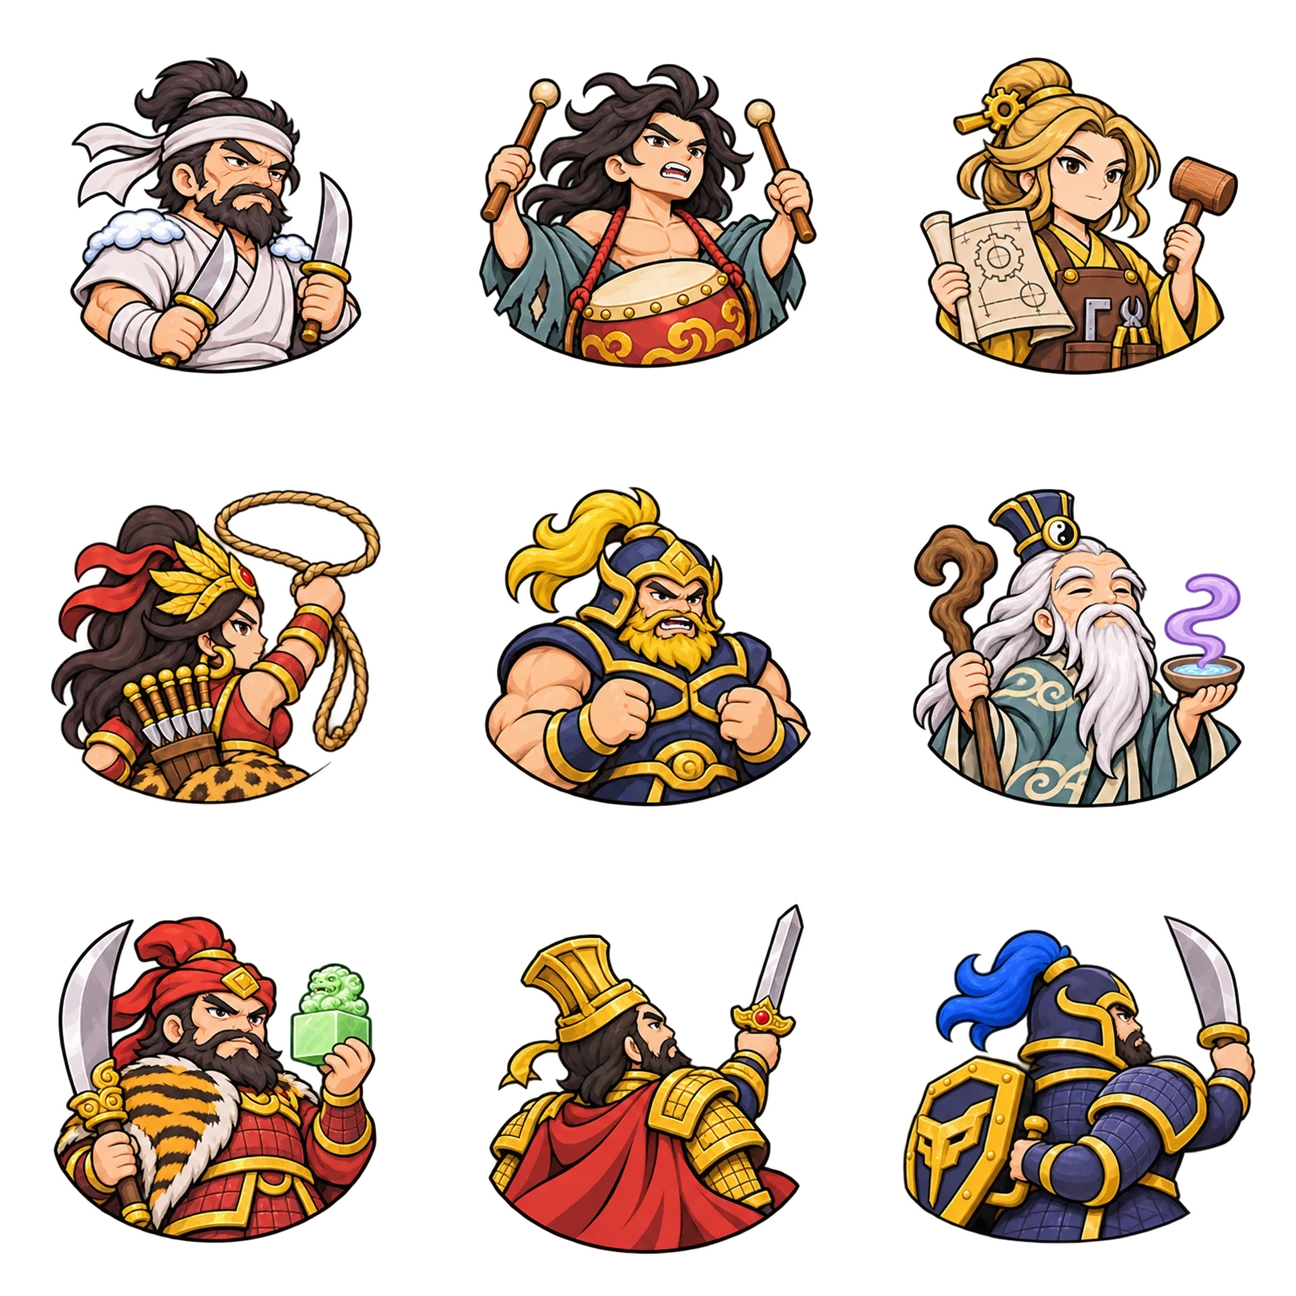
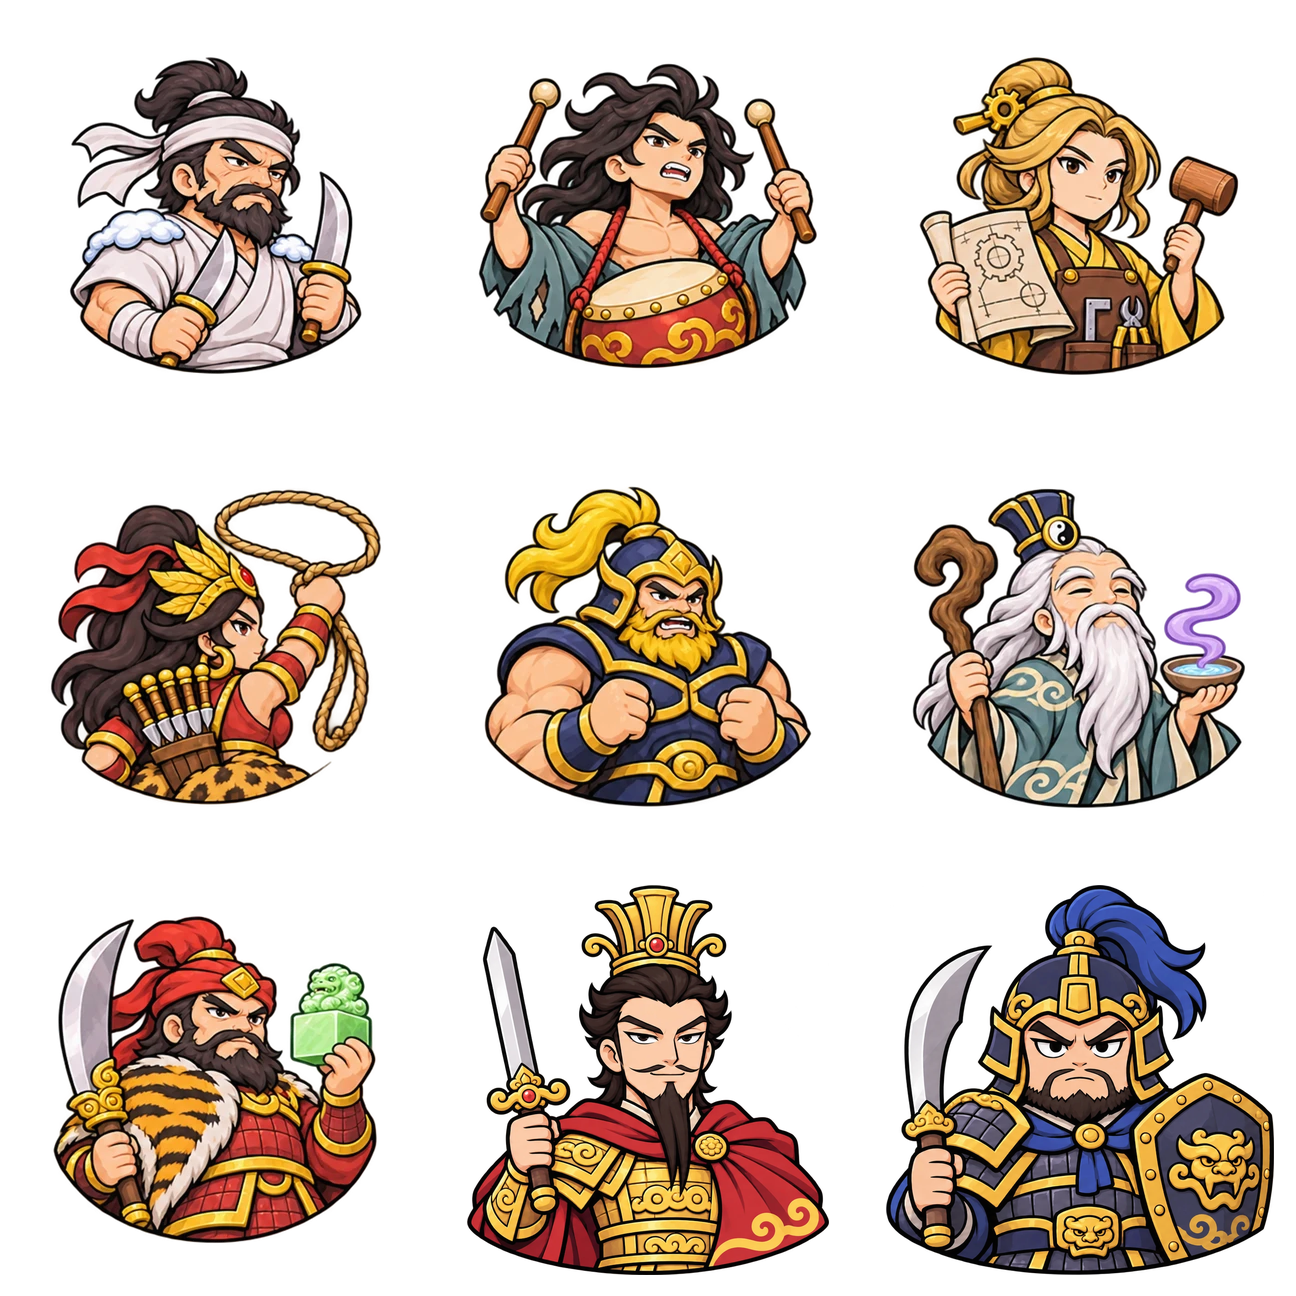
烽火守城：换上武将 11、头像 10 的手绘图，袁绍和曹仁的头像重画成正脸
至此 94 名武将、58 件兵器、全部敌人都有手绘图。

Claude-Session: https://claude.ai/code/session_01L3jguFYprBTa7gYpFHSxvP

Changed region(s): [[0.679, 0.679, 0.9877, 0.9877], [0.3395, 0.679, 0.6481, 0.9877]]

diff --git a/sanguo-td/assets/manifest.js b/sanguo-td/assets/manifest.js
@@ -110,7 +110,9 @@ window.ASSET_LIST = [
   'heroes/caochun_head.png',
   'heroes/caohong.png',
   'heroes/caohong_head.png',
+  'heroes/caoren.png',
   'heroes/caoren_head.png',
+  'heroes/caozhang.png',
   'heroes/caozhang_head.png',
   'heroes/chengong.png',
   'heroes/chengong_head.png',
@@ -126,6 +128,7 @@ window.ASSET_LIST = [
   'heroes/dianwei_head.png',
   'heroes/diaochan.png',
   'heroes/diaochan_head.png',
+  'heroes/dingfeng.png',
   'heroes/dingfeng_head.png',
   'heroes/dongzhuo.png',
   'heroes/dongzhuo_head.png',
@@ -150,6 +153,7 @@ window.ASSET_LIST = [
   'heroes/guanping.png',
   'heroes/guanping_head.png',
   'heroes/guanxing.png',
+  'heroes/guanxing_head.png',
   'heroes/guanyu.png',
   'heroes/guanyu_head.png',
   'heroes/guojia.png',
@@ -158,6 +162,7 @@ window.ASSET_LIST = [
   'heroes/handang_head.png',
   'heroes/huanggai.png',
   'heroes/huanggai_head.png',
+  'heroes/huangyueying.png',
   'heroes/huangyueying_head.png',
   'heroes/huangzhong.png',
   'heroes/huangzhong_head.png',
@@ -166,6 +171,7 @@ window.ASSET_LIST = [
   'heroes/huaxiong.png',
   'heroes/huaxiong_head.png',
   'heroes/jianggan.png',
+  'heroes/jianggan_head.png',
   'heroes/jiangqin.png',
   'heroes/jiangqin_head.png',
   'heroes/jiangwei.png',
@@ -173,6 +179,7 @@ window.ASSET_LIST = [
   'heroes/jiaxu.png',
   'heroes/jiaxu_head.png',
   'heroes/kongrong.png',
+  'heroes/kongrong_head.png',
   'heroes/liaohua.png',
   'heroes/liaohua_head.png',
   'heroes/lidian.png',
@@ -184,6 +191,7 @@ window.ASSET_LIST = [
   'heroes/liubei.png',
   'heroes/liubei_head.png',
   'heroes/liushan.png',
+  'heroes/liushan_head.png',
   'heroes/luxun.png',
   'heroes/luxun_head.png',
   'heroes/lvbu.png',
@@ -195,14 +203,17 @@ window.ASSET_LIST = [
   'heroes/madai.png',
   'heroes/madai_head.png',
   'heroes/manchong.png',
+  'heroes/manchong_head.png',
   'heroes/masu.png',
   'heroes/masu_head.png',
   'heroes/menghuo.png',
   'heroes/menghuo_head.png',
   'heroes/mifang.png',
   'heroes/mifang_head.png',
+  'heroes/miheng.png',
   'heroes/miheng_head.png',
   'heroes/mizhu.png',
+  'heroes/mizhu_head.png',
   'heroes/panfeng.png',
   'heroes/panfeng_head.png',
   'heroes/pangde.png',
@@ -210,12 +221,14 @@ window.ASSET_LIST = [
   'heroes/pangtong.png',
   'heroes/pangtong_head.png',
   'heroes/panzhang.png',
+  'heroes/panzhang_head.png',
   'heroes/peiyuan.png',
   'heroes/peiyuan_head.png',
   'heroes/simayi.png',
   'heroes/simayi_head.png',
   'heroes/sunce.png',
   'heroes/sunce_head.png',
+  'heroes/sunjian.png',
   'heroes/sunjian_head.png',
   'heroes/sunquan.png',
   'heroes/sunquan_head.png',
@@ -246,16 +259,20 @@ window.ASSET_LIST = [
   'heroes/xushu.png',
   'heroes/xushu_head.png',
   'heroes/xuyou.png',
+  'heroes/xuyou_head.png',
   'heroes/yanliang.png',
   'heroes/yanliang_head.png',
+  'heroes/yuanshao.png',
   'heroes/yuanshao_head.png',
   'heroes/yuejin.png',
   'heroes/yuejin_head.png',
+  'heroes/yuji.png',
   'heroes/yuji_head.png',
   'heroes/yujin.png',
   'heroes/yujin_head.png',
   'heroes/zhangbao.png',
   'heroes/zhangbao2.png',
+  'heroes/zhangbao2_head.png',
   'heroes/zhangbao_head.png',
   'heroes/zhangfei.png',
   'heroes/zhangfei_head.png',
@@ -277,6 +294,7 @@ window.ASSET_LIST = [
   'heroes/zhouyu_head.png',
   'heroes/zhugeliang.png',
   'heroes/zhugeliang_head.png',
+  'heroes/zhurong.png',
   'heroes/zhurong_head.png',
   'heroes/zuoci.png',
   'heroes/zuoci_head.png',
@@ -343,4 +361,4 @@ window.ASSET_LIST = [
   'weapons/zhuque.png',
   'weapons/zidian.png',
 ];
-window.ASSET_VER = '494e199754';
+window.ASSET_VER = '33fe011216';

diff --git a/sanguo-td/tools/art-prompts-25d.html b/sanguo-td/tools/art-prompts-25d.html
@@ -61,7 +61,7 @@ section { display: flex; flex-direction: column; gap: 14px; }
 <div class="wrap">
   <header>
     <h1>烽火守城 · <span>国风卡通</span> 出图</h1>
-    <p class="lede">烽火守城的画风：国风 Q 版卡通（粗黑描边、平涂加简单阴影、颜色鲜艳），高俯视角、背身守城，场景比角色暗。武将 1 和头像 1 是所有图的标准：每次把它们一起发给 GPT。<b>还差 2 张：武将 11</b>（丁奉、祢衡、黄月英、祝融夫人、曹彰、于吉、孙坚、袁绍、曹仁的战场立绘）和<b>头像 10</b>（蒋干、糜竺、潘璋、刘禅、许攸、孔融、满宠、关兴、张苞的头像），排在最前面；画武将时附上「武将 1」，画头像时附上「头像 1」，画兵器时附上「兵器 1」。画好前游戏里先用代码画的小人和图标顶着。其余 36 张都已经在游戏里了，想重画哪张，照样复制提示词，画好后用同一个文件名发过来就会替换。</p>
+    <p class="lede">烽火守城的画风：国风 Q 版卡通（粗黑描边、平涂加简单阴影、颜色鲜艳），高俯视角、背身守城，场景比角色暗。武将 1 和头像 1 是所有图的标准：每次把它们一起发给 GPT。<b>全部 47 张都已经画好、换进游戏了。</b>想重画哪张，照样复制提示词，画好后用同一个文件名发过来就会替换。</p>
   </header>
 
   <ol class="steps">
@@ -449,7 +449,7 @@ const groups = [
 ];
 
 /* 已经画好并换进游戏的图（要重画也可以，照样复制提示词） */
-const DONE = ['hero_1.png', 'head_1.png', 'hero_2.png', 'head_2.png', 'hero_3.png', 'head_3.png', 'hero_4.png', 'head_4.png', 'hero_5.png', 'head_5.png', 'hero_6.png', 'head_6.png', 'hero_7.png', 'head_7.png', 'hero_8.png', 'head_8.png', 'weapon_1.png', 'weapon_2.png', 'weapon_3.png', 'weapon_4.png', 'battle.png', 'fx_1.png', 'fx_2.png', 'fx_3.png', 'fx_4.png', 'fx_5.png', 'fx_6.png', 'enemy_1.png', 'enemy_2.png', 'enemy_3.png', 'unit_1.png', 'enemy_4.png', 'enemy_5.png', 'enemy_6.png', 'enemy_7.png', 'weapon_5.png', 'weapon_6.png', 'hero_9.png', 'head_9.png', 'hero_10.png', 'head_11.png', 'weapon_7.png'];
+const DONE = ['hero_1.png', 'head_1.png', 'hero_2.png', 'head_2.png', 'hero_3.png', 'head_3.png', 'hero_4.png', 'head_4.png', 'hero_5.png', 'head_5.png', 'hero_6.png', 'head_6.png', 'hero_7.png', 'head_7.png', 'hero_8.png', 'head_8.png', 'weapon_1.png', 'weapon_2.png', 'weapon_3.png', 'weapon_4.png', 'battle.png', 'fx_1.png', 'fx_2.png', 'fx_3.png', 'fx_4.png', 'fx_5.png', 'fx_6.png', 'enemy_1.png', 'enemy_2.png', 'enemy_3.png', 'unit_1.png', 'enemy_4.png', 'enemy_5.png', 'enemy_6.png', 'enemy_7.png', 'weapon_5.png', 'weapon_6.png', 'hero_9.png', 'head_9.png', 'hero_10.png', 'head_11.png', 'weapon_7.png', 'hero_11.png', 'head_10.png'];
 
 /* 页面上的排法：还没画的排最前面（按建议的出图顺序：武将和它的头像挨着），已画好的收在后面 */
 const all = [];

diff --git a/sanguo-td/README.md b/sanguo-td/README.md
@@ -149,14 +149,14 @@ sanguo-td/
 ## 美术现状（v0.4）
 
 - **烽火守城走自己的画风，不用布衣三国的素材**：国风 Q 版卡通（粗黑描边、平涂加简单阴影、颜色鲜艳），高俯视角、武将背身守城，脚下深色圆形底座。
-- **还差 2 张（v2.3）**：`hero_11.png`（丁奉、祢衡、黄月英、祝融夫人、曹彰、于吉、孙坚、袁绍、曹仁的战场立绘，现在是代码画的小人）、`head_10.png`（蒋干等 9 人的头像，现在用战场立绘的上半身）。`hero_9.png`、`head_9.png`、`hero_10.png`、`head_11.png`、`weapon_6.png`、`weapon_7.png` 已画好。
+- **v2.2、v2.3 新加的也画完了**：27 名新武将的战场立绘和头像（`hero_9.png`～`hero_11.png`、`head_9.png`～`head_11.png`）、18 件新兵器（`weapon_6.png`、`weapon_7.png`）。头像 11 里的袁绍、曹仁重画过一次（第一版画成了背影），新图已经贴进 `head_11.png` 的第 8、9 格。现在所有武将、兵器、敌人都有手绘图。
 - **v2.0、v2.1 新加的也画完了**：24 位每章前 9 关的敌将（`enemy_4.png`、`enemy_5.png`、`enemy_6.png`）、奇遇里的四个山贼首领和四神兽（`enemy_7.png`，切出来是 `assets/enemies/enc_<id>.png`）、四件神兽兵器（`weapon_5.png`）。现在没有用代码画的造型顶着的了。
 - **金、橙武将的专属大招特效也画完了**（`fx_4.png`～`fx_6.png`，20 个；加上原有的青龙、白龙、凤凰，23 名金橙武将人人有一张手绘特效）：`skills.js` 里标着「专属特效」的地方用到，`B.has(名字)` 判断有没有图，没有图时退回代码画的效果。moon、halberd、chain、snowflake 四张顶替了代码生成的同名贴图。
 - **大招里冲出去的黄巾兵、铁骑、虎豹骑、战象也画完了**：`unit_1.png` 已切好放进 `assets/fx/`（透明底的实体小图，不是发光特效）。
 - **v1.4、v1.5 新加的也画完了**：也当敌将的 8 名武将（`hero_8.png`、`head_8.png`）和 18 件新兵器（`weapon_3.png`、`weapon_4.png`）都已切好放进 `assets/heroes/`、`assets/weapons/`。
 - **v1.3 新加的 7 种敌兵也画完了**（死士、冲车、鼓手、重甲兵、投石车、藤甲兵、巫医）：`enemy_3.png` 已切好放进 `assets/enemies/`。
 - **v1.2 新加的 9 名武将也画完了**（张郃 周泰 陈宫 马岱 公孙瓒 乐进 李典 韩当 王平）：`hero_7.png`、`head_7.png` 已切好放进 `assets/heroes/`。
-- **美术已全部画完**：67 名武将和 4 名未开放神将的战场立绘、正面头像；40 件兵器图标；全部敌人（黄巾兵 / 官军两套敌兵、9 位各章敌将）；战场背景；全部技能特效。
+- **美术已全部画完**：94 名武将和 4 名未开放神将的战场立绘、正面头像；58 件兵器图标；全部敌人（黄巾兵 / 官军两套敌兵、9 位各章敌将）；战场背景；全部技能特效。
 - **v1.0 新加的 18 名武将和 18 件兵器也画完了**：`hero_5.png`、`hero_6.png`、`head_5.png`、`head_6.png`、`weapon_1.png`、`weapon_2.png` 都已切好放进 `assets/heroes/` 和 `assets/weapons/`。
 - 2.5D：敌人远小近大、远处烟尘罩层、左上暖光、暗角调色、地面颗粒；有立绘图片时自动加斜投影。
 - **收腰**：貂蝉、小乔、大乔、甄姬、蔡文姬、孙尚香的裙摆和飘带往两边撑得太开，背身俯视显胖；切图时头部不动、从肩往下逐渐收窄，个头也略小一点（`slice_sheets.py` 的 `SLIM`，数越小收得越多）。
